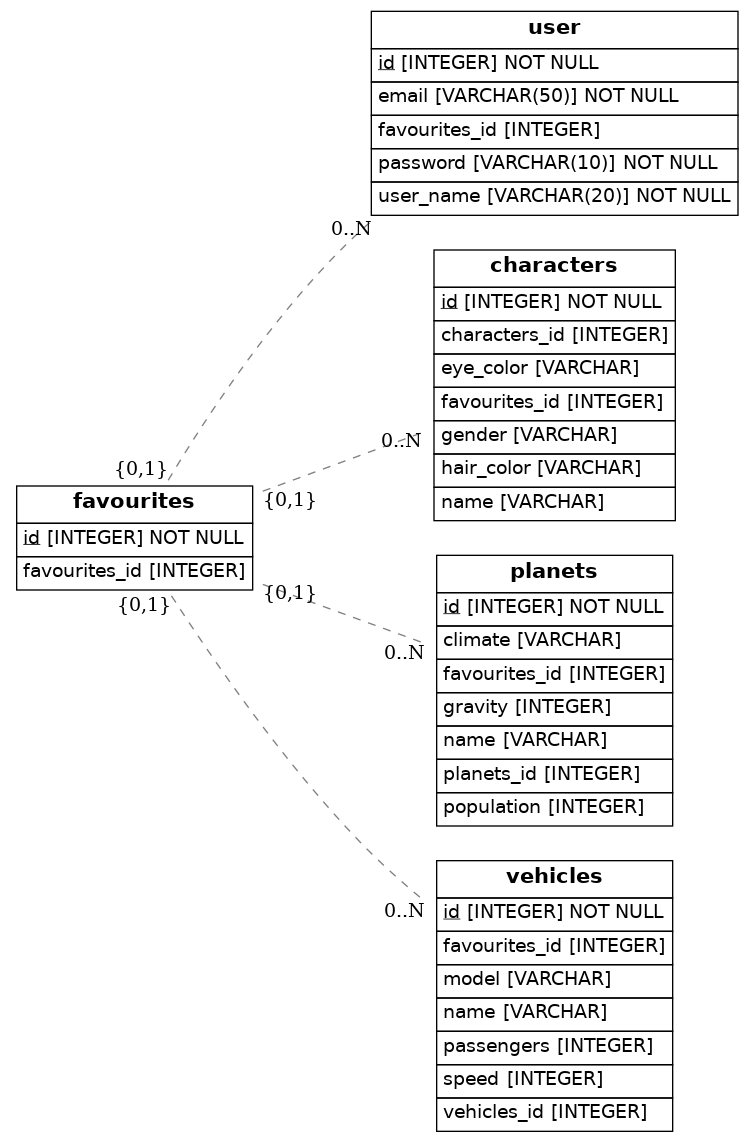
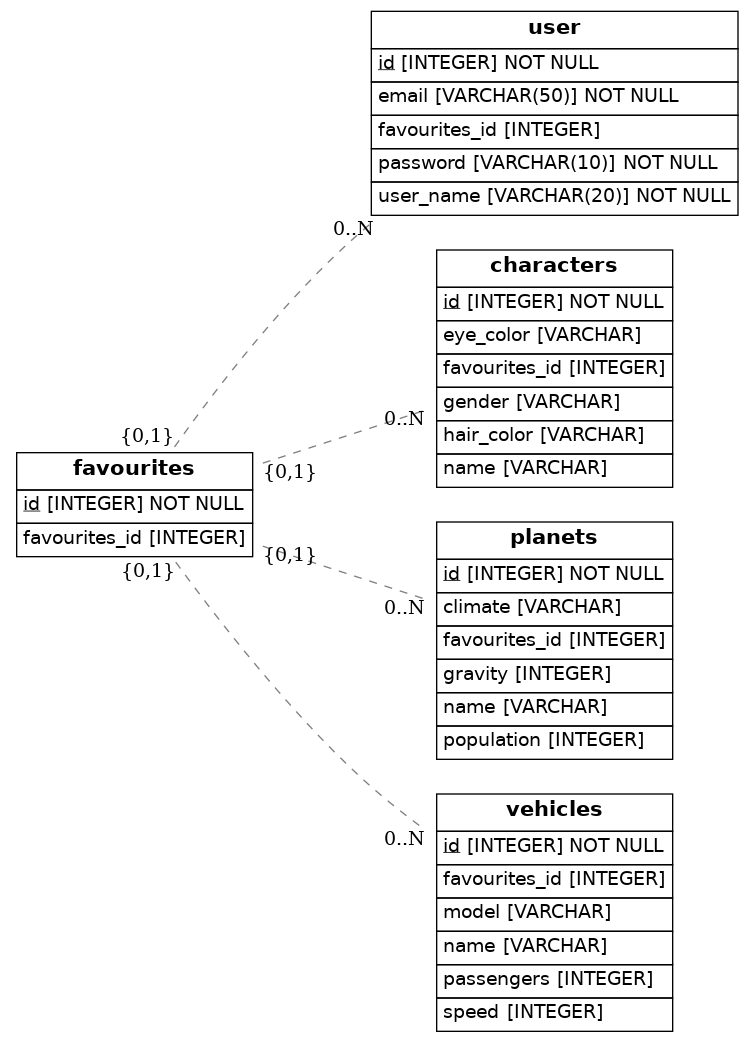
second commit

diff --git a/src/models.py b/src/models.py
@@ -7,7 +7,6 @@ from eralchemy2 import render_er
 
 Base = declarative_base()
 
-follower = relationship('User', secondary='Follower', back_populates='User')
 
 class User(Base):
     __tablename__ = 'user'
@@ -27,7 +26,7 @@ class Favourites(Base):
 class Characters(Base):
     __tablename__ = 'characters'
     id = Column(Integer, primary_key=True)
-    characters_id = Column(Integer)
+    # characters_id = Column(Integer)
     name = Column(String)
     gender = Column(String)
     hair_color = Column(String)
@@ -38,7 +37,7 @@ class Characters(Base):
 class Planets(Base):
     __tablename__ = 'planets'
     id = Column(Integer, primary_key=True)
-    planets_id = Column(Integer)
+    #planets_id = Column(Integer)
     name = Column(String)
     climate = Column(String)
     gravity = Column(Integer)
@@ -49,7 +48,7 @@ class Planets(Base):
 class Vehicles(Base):
     __tablename__ = 'vehicles'
     id = Column(Integer, primary_key=True)
-    vehicles_id = Column(Integer)
+    #vehicles_id = Column(Integer)
     name = Column(String)
     model = Column(String)
     passengers = Column(Integer)
